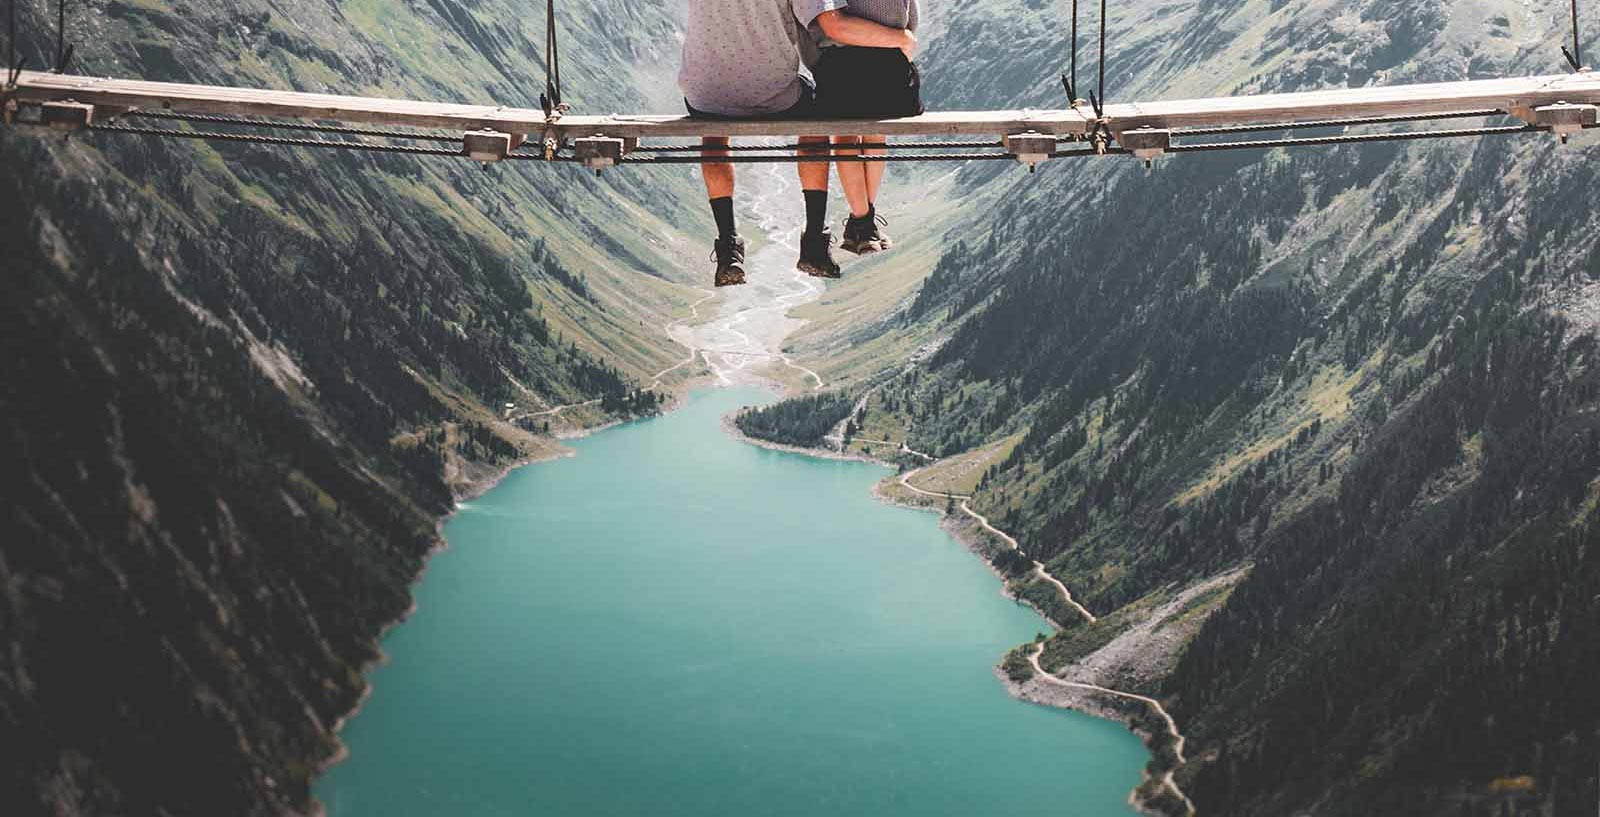
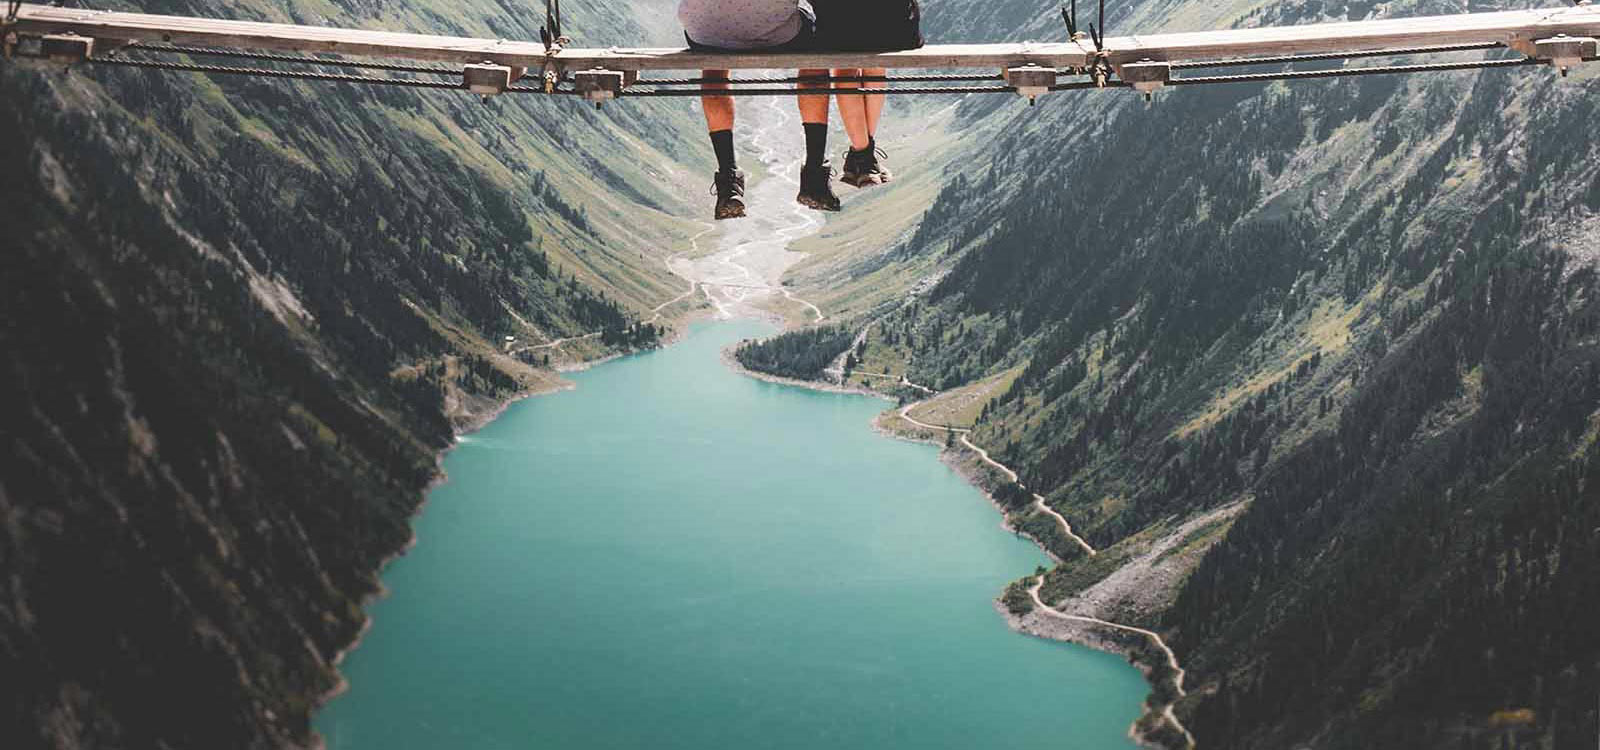
updated background images

diff --git a/css/media.css b/css/media.css
@@ -21,10 +21,6 @@
         display: inline-block;
         padding: 0px 10px;
     }
-    
-    .intro {
-        background-position: center top;
-    }
 
     .categories, .featured, .contact, .product {
         flex-direction: row;
@@ -60,17 +56,12 @@
 
 @media (min-width: 900px) {
 
-    .intro {
-        background-position-y: -40px;
-    }
-
     .product-list {
         grid-template-columns: repeat(3, 1fr);
     }
 
     .products-intro {
         min-height: 35vh;
-        background-position-y: -100px;
     }
 
     .products-intro h1 {
@@ -91,14 +82,6 @@
 
     .product-list {
         margin: 50px auto;
-    }
-
-    .products-intro {
-        background-position-y: -200px;
-    }
-
-    .subscribe-success {
-        background-position-y: -1000px;
     }
 
     .subscribe-success-content {

diff --git a/css/products.css b/css/products.css
@@ -1,10 +1,10 @@
 /* PRODUCTS PAGE */
 
 .products-intro {
-    background: linear-gradient(rgba(0, 0, 0, 0.6), rgba(0, 0, 0, 0.6)), url(../images/men.jpg);
+    background: linear-gradient(rgba(0, 0, 0, 0.6), rgba(0, 0, 0, 0.6)), url(../images/men-intro.jpg);
     min-height: 30vh;
     background-size: cover; 
-    background-position: center top;
+    background-position: center 20%;
     text-align: center;
     position: relative;
 }

diff --git a/css/subscribe-success.css b/css/subscribe-success.css
@@ -3,7 +3,7 @@
 .subscribe-success {
     background: linear-gradient(rgba(0, 0, 0, 0.6), rgba(0, 0, 0, 0.6)), url(../images/road-to-the-journey.jpg);
     background-size: cover;
-    background-position: center bottom;
+    background-position: center 60%;
     position: relative;
     text-align: center;
     color: var(--text-color-light);

diff --git a/css/index.css b/css/index.css
@@ -5,7 +5,7 @@
     background: linear-gradient(rgba(0, 0, 0, 0.6), rgba(0, 0, 0, 0.6)), url(../images/intro.jpg); /* reference: https://css-tricks.com/tinted-images-multiple-backgrounds/ */
     min-height: 50vh;
     background-size: cover;
-    background-position: center;
+    background-position: center top;
 }
 
 .intro h1 {
